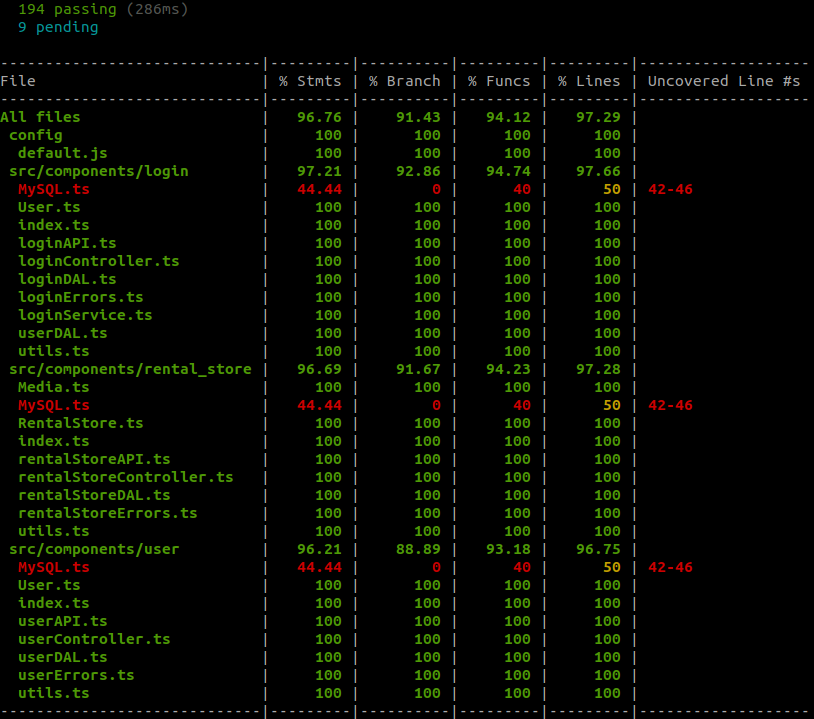
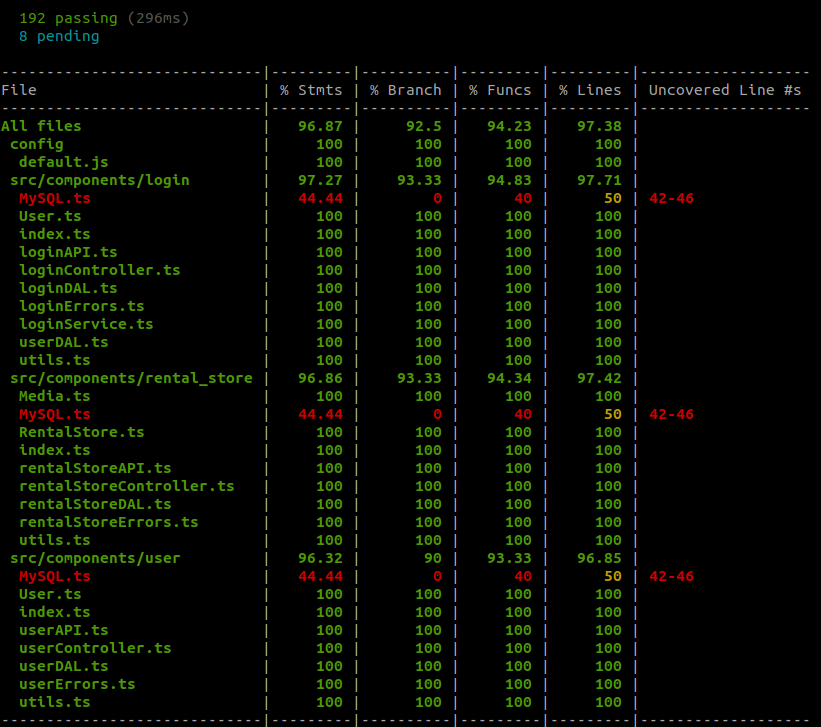
Change README

Changed region(s): [[0.0, 0.0918, 0.9828, 1.0], [0.0, 0.0, 0.2457, 0.0612], [0.0, 0.9791, 0.0307, 1.0]]

diff --git a/README.md b/README.md
@@ -35,6 +35,6 @@ Para os processo de build e deploy com o Docker basta executar o comando **docke
 A documentação da API se encontra [aqui](./documentation/documentation.md)
 
 # Testes
-Foram criados 194 testes unitários do quais contemplam 96% da aplicação segundo o modulo NYC. Para a execução dos testes é necessário seguir os passo sendo utilizando os serviços na pópria maquina e então executar o comando **npm run coverage** do diretório */4all/backend*
+Foram criados 192 testes unitários do quais contemplam 96% da aplicação segundo o modulo NYC. Para a execução dos testes é necessário seguir os passo sendo utilizando os serviços na pópria maquina e então executar o comando **npm run coverage** do diretório */4all/backend*
 
 ![](./documentation/images/test.png)
